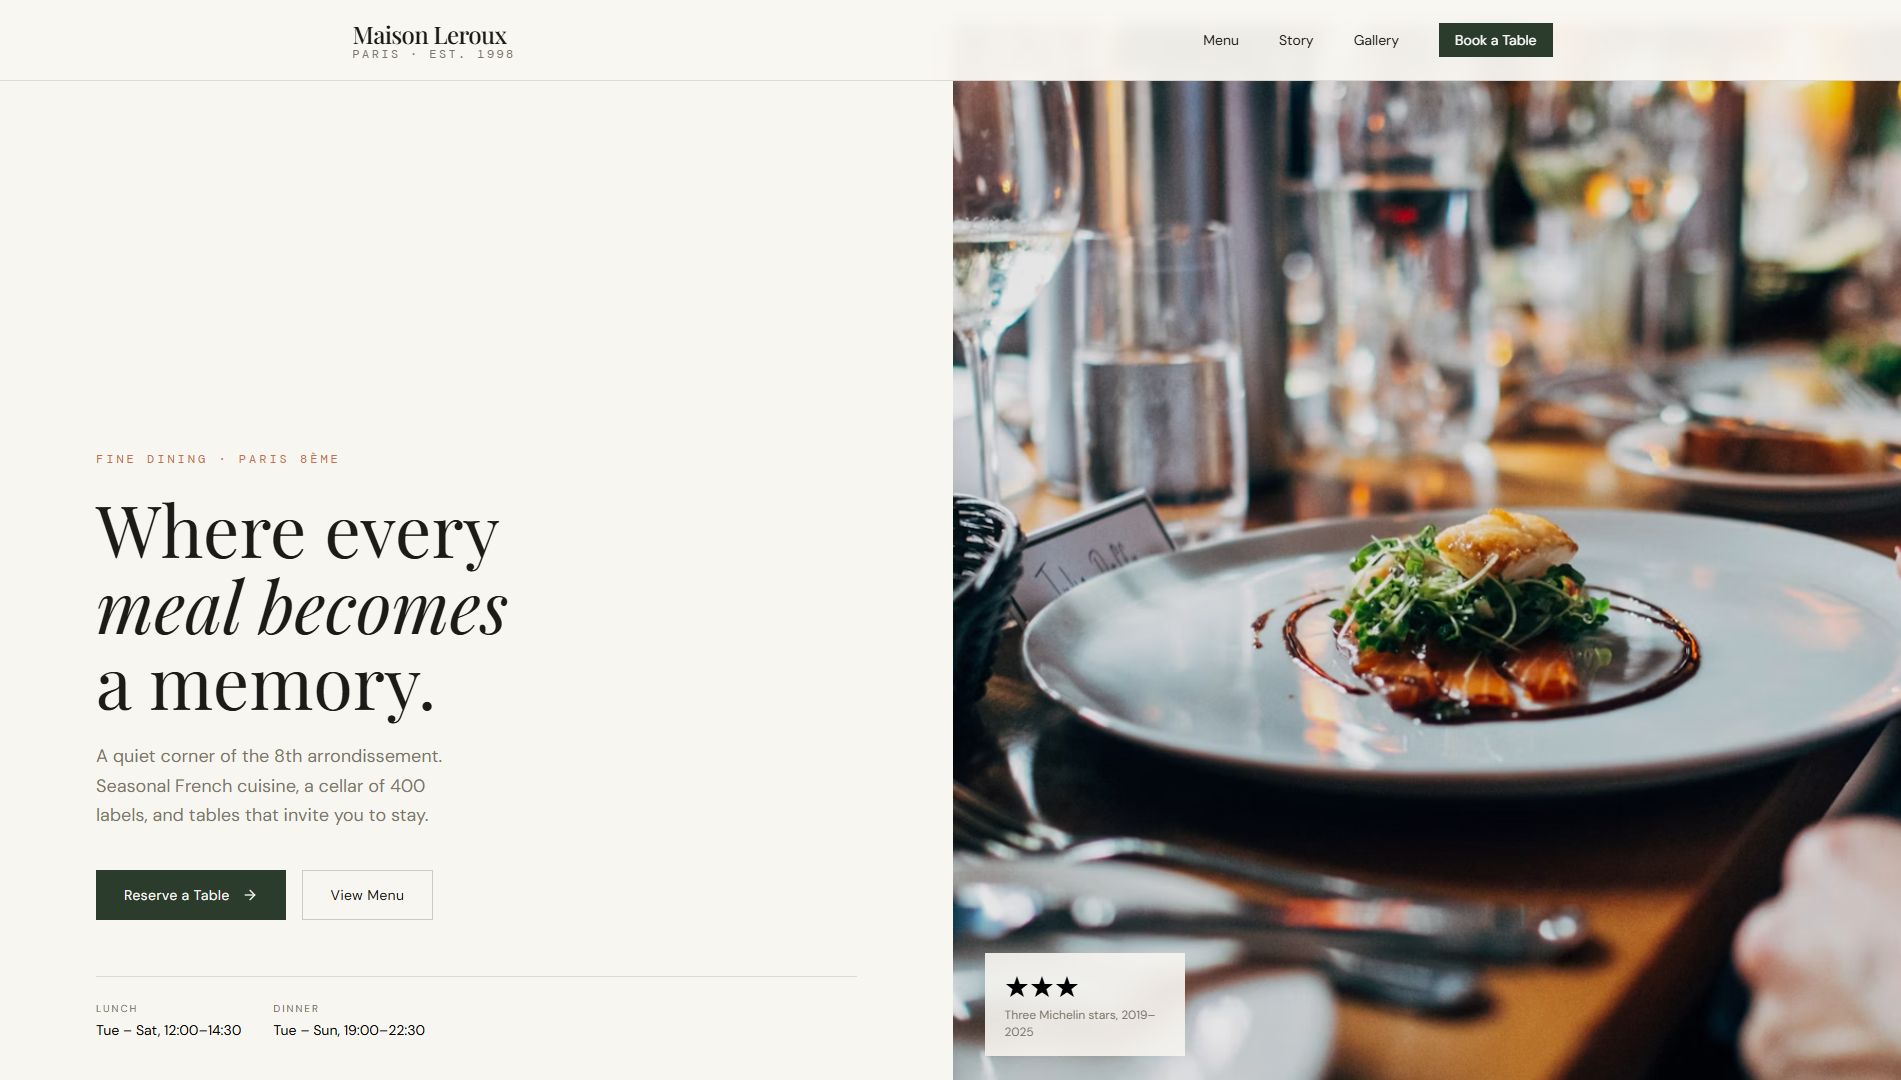
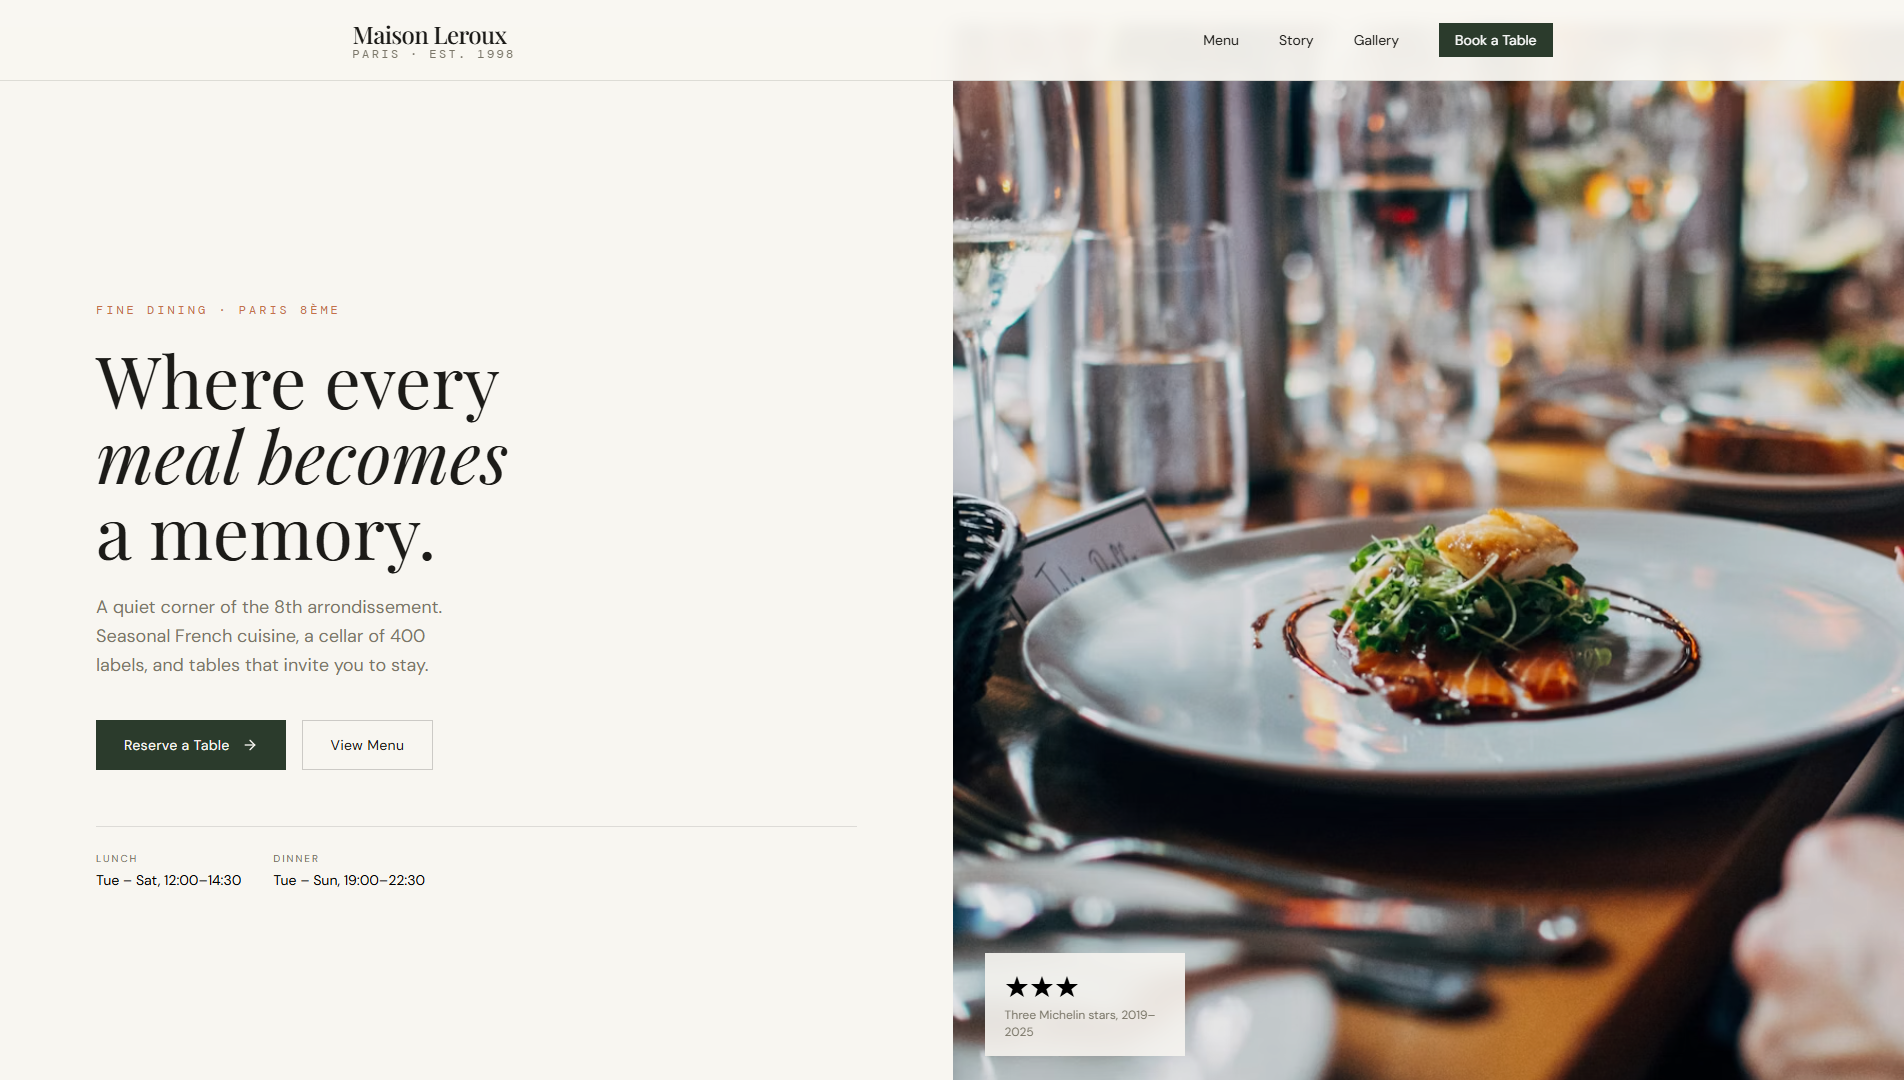
fix: header image adress

diff --git a/index.html b/index.html
@@ -1,8 +1,8 @@
 <!doctype html>
 <html class="scroll-smooth" dir="">
   <head>
-    <meta charset="UTF-8"/>
-    <meta name="viewport" content="width=device-width, initial-scale=1.0">
+    <meta charset="UTF-8" />
+    <meta name="viewport" content="width=device-width, initial-scale=1.0" />
     <link href="./src/css/styles.css" rel="stylesheet" />
     <link href="./src/css/output.css" rel="stylesheet" />
     <title>Restaurant Landing Page</title>
@@ -160,7 +160,7 @@
         class="w-full min-h-screen grid md:grid-cols-[1fr_1fr] overflow-hidden"
       >
         <div
-          class="h-screen bg-background pt-32 px-8 md:px-16 lg:px-24 pb-16 flex flex-col justify-end"
+          class="h-screen bg-background pt-32 px-8 md:px-16 lg:px-24 pb-16 flex flex-col justify-center"
         >
           <span
             class="font-DMmono mb-6 tracking-[0.25em] uppercase text-accent text-xs"
@@ -247,7 +247,7 @@
 
         <div class="md:hidden relative h-72 bg-muted">
           <img
-            src="https://images.unsplash.com/photo-1414235077428-338989a2e8c0?w=800&amp;h=600&amp;fit=crop&amp;auto=format"
+            src="./src/images/header img.avif"
             alt="Candlelit dining room"
             class="absolute inset-0 w-full h-full object-cover"
           />
@@ -308,7 +308,9 @@
               Dishes worth the journey.
             </div>
           </div>
-          <div class="flex flex-row flex-wrap gap-2 items-center justify-center">
+          <div
+            class="flex flex-row flex-wrap gap-2 items-center justify-center"
+          >
             <button
               id="all-btn"
               class="dish-btn border border-border py-2 px-4 text-xs tracking-wide cursor-pointer hover:border-foreground/40 transition-all duration-200 bg-primary text-background"

diff --git a/src/css/output.css b/src/css/output.css
@@ -979,6 +979,9 @@
     }
   }
   @media (width >= 64rem) {
+    .lg\:px-16 {
+      padding-inline: calc(var(--spacing) * 16);
+    }
     .lg\:px-24 {
       padding-inline: calc(var(--spacing) * 24);
     }
